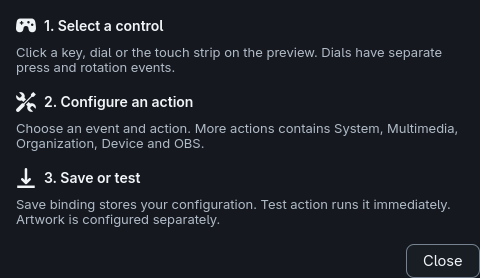
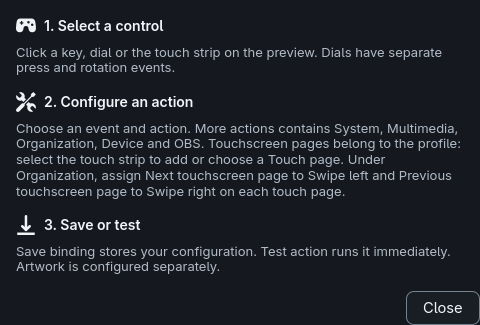
Touch pad pages

diff --git a/docs/index.html b/docs/index.html
@@ -221,11 +221,11 @@
           <p>Touchscreen settings, images and dial press/turn assignments follow the profile's selected touch page,
              independently of keypad pages and folders. Existing touch pages receive their profile's main-page dials
              on upgrade, without replacing touch edits or discarding legacy records.
-             Select the strip to add or choose a <strong>Touch page</strong>. Under <strong>More actions &gt; Organization</strong>,
-             assign <strong>Next touchscreen page</strong> to Swipe left and <strong>Previous touchscreen page</strong>
-             to Swipe right on each touch page. Left/right edge indicators show available previous/next touch pages,
+             Select the strip to add, choose or delete a <strong>Touch page</strong>. Swiping left shows the next touch page and
+             swiping right the previous one by default; assign any action to a swipe to override it. Left/right edge
+             indicators show available previous/next touch pages,
              including over section images and live information; unavailable directions are hidden.
-             Existing configurations and swipe assignments are preserved.</p>
+             Existing configurations and swipe assignments are preserved. The app always starts on the Base profile's first page.</p>
         </div>
         <div class="pair">
           <img class="shot" src="screenshots/encoder-events.png" width="243" height="188" loading="lazy"

diff --git a/src/feature_runtime/touchscreen.rs b/src/feature_runtime/touchscreen.rs
@@ -10,6 +10,7 @@ pub(super) struct TouchscreenControls {
     previous: Button,
     next: Button,
     create: Button,
+    delete: Button,
     updating: Rc<Cell<bool>>,
 }
 impl TouchscreenControls {
@@ -22,9 +23,10 @@ impl TouchscreenControls {
         let previous = crate::ui::icon_button("go-previous-symbolic", "Previous touchscreen page");
         let next = crate::ui::icon_button("go-next-symbolic", "Next touchscreen page");
         let create = crate::ui::icon_button("list-add-symbolic", "New touchscreen page");
+        let delete = crate::ui::icon_button("edit-delete-symbolic", "Delete touchscreen page");
         root.append(&Label::new(Some("Touch page")));
         root.append(&picker);
-        for button in [&previous, &next, &create] {
+        for button in [&previous, &next, &create, &delete] {
             root.append(button);
         }
         root.set_visible(false);
@@ -35,6 +37,7 @@ impl TouchscreenControls {
             previous,
             next,
             create,
+            delete,
             updating: Rc::new(Cell::new(false)),
         }
     }
@@ -59,6 +62,9 @@ impl TouchscreenControls {
                 Err(error) => callback.report(&format!("Could not create touchscreen page: {error}"), true),
             }
         });
+        let callback = runtime.clone();
+        self.delete
+            .connect_clicked(move |_| callback.confirm_touchscreen_removal());
         let callback = runtime.clone();
         let updating = self.updating.clone();
         self.picker.connect_selected_notify(move |picker| {
@@ -138,6 +144,7 @@ impl FeatureRuntime {
         controls
             .create
             .set_sensitive(!pages.is_empty() && pages.len() < 64);
+        controls.delete.set_sensitive(pages.len() > 1);
         controls.root.set_visible(
             matches!(
                 self.ui.control_kind(),
@@ -145,6 +152,67 @@ impl FeatureRuntime {
             ) && !pages.is_empty(),
         );
         controls.updating.set(false);
+    }
+    fn confirm_touchscreen_removal(&self) {
+        let Some(parent) = self
+            .touchscreen_controls
+            .root
+            .root()
+            .and_then(|root| root.downcast::<gtk::Window>().ok())
+        else {
+            return;
+        };
+        let Some(profile) = self.touchscreen_profile() else {
+            return;
+        };
+        let (owner, number) = {
+            let layers = self.layers.borrow();
+            let Some(owner) = layers.touchscreen_owner(layers.active()).map(str::to_owned) else {
+                return;
+            };
+            let number = layers
+                .touchscreen_pages(&profile)
+                .iter()
+                .position(|page| *page == owner)
+                .map_or(1, |index| index + 1);
+            (owner, number)
+        };
+        let dialog = gtk::MessageDialog::builder()
+            .transient_for(&parent)
+            .modal(true)
+            .destroy_with_parent(true)
+            .message_type(gtk::MessageType::Question)
+            .text(format!("Delete touchscreen page {number}?"))
+            .secondary_text("This deletes the page's touch, dial and gesture bindings and artwork. Keypad pages are unchanged. It cannot be undone.")
+            .build();
+        dialog.add_button("Keep", gtk::ResponseType::Cancel);
+        dialog
+            .add_button("Delete page", gtk::ResponseType::Accept)
+            .add_css_class("destructive-action");
+        dialog.set_default_response(gtk::ResponseType::Cancel);
+        let callback = self.clone();
+        dialog.connect_response(move |dialog, response| {
+            if response == gtk::ResponseType::Accept {
+                match callback.remove_touchscreen_page(&profile, &owner) {
+                    Ok(()) => callback.report("Touchscreen page deleted.", false),
+                    Err(error) => callback
+                        .report(&format!("Could not delete touchscreen page: {error}"), true),
+                }
+            }
+            dialog.close();
+        });
+        dialog.present();
+    }
+    fn remove_touchscreen_page(&self, profile: &str, owner: &str) -> Result<(), String> {
+        let mut layers = self.layers.borrow().clone();
+        layers
+            .remove_touchscreen_page(profile, owner)
+            .map_err(|error| error.to_string())?;
+        self.artwork.remove_layers(&[owner.to_owned()])?;
+        *self.layers.borrow_mut() = layers;
+        self.refresh_selection();
+        self.persist(self.layers.borrow().clone());
+        Ok(())
     }
     pub(super) fn navigate_touchscreen(&self, action: TouchscreenAction) {
         let Some(profile) = self.touchscreen_profile() else {

diff --git a/src/layers/touchscreen.rs b/src/layers/touchscreen.rs
@@ -588,6 +588,32 @@ impl LayerStore {
         data.selected = data.pages.len() - 1;
         Ok(owner)
     }
+    /// Delete one touch page; a profile always keeps at least one. The selection
+    /// keeps pointing at the same page, or at the nearest one if it was removed.
+    pub fn remove_touchscreen_page(&mut self, profile: &str, owner: &str) -> io::Result<()> {
+        if self.touchscreens.invalid {
+            return Err(invalid("repair touchscreen configuration before saving"));
+        }
+        let data = self
+            .touchscreens
+            .profiles
+            .get_mut(profile)
+            .ok_or_else(|| invalid("unknown touchscreen profile"))?;
+        let index = data
+            .pages
+            .iter()
+            .position(|page| page.name == owner)
+            .ok_or_else(|| invalid("unknown touchscreen page"))?;
+        if data.pages.len() == 1 {
+            return Err(invalid("a profile must keep at least one touchscreen page"));
+        }
+        data.pages.remove(index);
+        if index < data.selected {
+            data.selected -= 1;
+        }
+        data.selected = data.selected.min(data.pages.len() - 1);
+        Ok(())
+    }
     pub fn select_touchscreen_page(&mut self, profile: &str, owner: &str) -> bool {
         let Some(profile) = self.touchscreens.profiles.get_mut(profile) else {
             return false;

diff --git a/src/layers.rs b/src/layers.rs
@@ -103,6 +103,31 @@ impl Trigger {
     }
 }
 
+/// Unbound horizontal swipes change touchscreen page: left shows the next
+/// page, right the previous one. Any explicit binding takes precedence.
+fn default_swipe_binding(event: &Event) -> Option<(Trigger, Action)> {
+    use crate::features::{FeatureAction, TouchscreenAction};
+    let Event::TouchFlick {
+        start_x,
+        start_y,
+        end_x,
+        end_y,
+    } = *event
+    else {
+        return None;
+    };
+    let direction = swipe_direction(start_x, start_y, end_x, end_y)?;
+    let page = match direction {
+        SwipeDirection::Left => TouchscreenAction::NextPage,
+        SwipeDirection::Right => TouchscreenAction::PreviousPage,
+        _ => return None,
+    };
+    Some((
+        Trigger::TouchSwipe(direction),
+        Action::Feature(FeatureAction::Touchscreen(page)),
+    ))
+}
+
 /// Section (1 through 4) of the 800px touch strip that contains `x`.
 fn touch_zone(x: u16) -> Option<u8> {
     u8::try_from(x / 200)
@@ -505,6 +530,7 @@ impl LayerStore {
                 self.binding(&self.active, &trigger)
                     .map(|action| (trigger, action))
             })
+            .or_else(|| default_swipe_binding(event))
     }
     pub fn apply_switch(&mut self, target: &str) -> bool {
         self.select(target)

diff --git a/src/main.rs b/src/main.rs
@@ -269,6 +269,10 @@ fn build_ui_with_visibility(app: &Application, visible: bool) {
             return;
         }
     };
+    // Every launch starts on Base (its first page), whatever was saved last.
+    layers
+        .borrow_mut()
+        .select(sdeck_plus::layers::DEFAULT_LAYER);
     let (sender, receiver) = mpsc::channel();
     let app_event_sender = sender.clone();
     let hid = event_api::start_hid_monitor(sender);

diff --git a/README.md b/README.md
@@ -183,21 +183,26 @@ unreadable or invalid recovery state is reported instead of silently replaced.
 **Touchscreen pages and swipe navigation.** Select a dial, the touch strip or a
 section to show **Touch page** above its editor. Use the page selector and arrows to
 browse independently, or **New touchscreen page** (+) to add and select a blank
+page. Use **Delete touchscreen page** (the trash button) to remove the selected
+touch page after confirming; its touch, dial and gesture bindings and artwork are
+deleted, keypad pages are unchanged, and a profile always keeps at least one touch
 page. Each profile remembers its selected touch page, including after restart.
 There are up to 64 touch pages per profile, separate from the keypad layer limit.
 
 Small chevrons at the strip's left/right edges indicate an available previous/next
 page, both on the device and in the window preview. Unavailable directions are
 hidden; a single-page profile shows neither. Indicators stay above section artwork
-and live information. They are visual hints, not automatic swipe assignments.
+and live information. They are visual hints; swipes work without any setup.
 
-On each touch page, select **Swipe left**, then **More actions > Organization >
-Next touchscreen page**, and save. Assign **Previous touchscreen page** to
-**Swipe right** in the same way. These actions are offered only for touchscreen
-controls; the existing Next/Previous page actions still navigate keypad pages.
-Neither touchscreen navigation action wraps at the first or last page. Existing
-swipe assignments are kept, not replaced automatically. Saving a navigation
-binding does not run it. A configured delayed return still targets its chosen
+By default, swiping left on the touch strip shows the next touch page and swiping
+right shows the previous one, with no binding to configure. The defaults apply
+only while the gesture has no binding of its own: to change a swipe, select
+**Swipe left** or **Swipe right**, choose any action (for example **More actions >
+Organization > Next touchscreen page**) and save; a Flick binding also takes
+precedence. Swipe up and down have no default. These touchscreen actions are
+offered only for touchscreen controls; the existing Next/Previous page actions
+still navigate keypad pages. Neither touchscreen navigation action wraps at the
+first or last page. Saving a navigation binding does not run it. A configured delayed return still targets its chosen
 keypad page; it does not select a touch page.
 
 ![Touch strip selected in the editor](docs/screenshots/touch-strip.png)
@@ -455,6 +460,8 @@ Profiles appear as native tabs, with **Base** always available. Create another
 profile in **Organize → New profile** using **Profile name** and **Create profile** (disabled until the name is new). Pages
 belong to their profile; folders belong to individual pages and do not create additional profile tabs.
 Switching tabs restores that profile's last selected page for the current session.
+Every time the app starts it opens on the **Base** profile's first page, whichever
+page was selected when it last closed.
 
 To make a profile application-specific, open **Organize → Edit profile**, choose it under
 **Profile to edit**, enter a window class or executable name under

diff --git a/DESIGN.md b/DESIGN.md
@@ -14,10 +14,13 @@ tools use progressive disclosure instead of competing with action editing.
 Touchscreen configuration is profile-owned and has its own page selection,
 independent of keypad pages and folders. Only the touch inspector shows the
 compact **Touch page** selector, boundary-aware previous/next arrows and add
-button; it does not change the fixed hardware preview geometry. Each control
+and delete buttons (delete is disabled for a profile's last touch page and asks
+for confirmation); it does not change the fixed hardware preview geometry. Each control
 retains an accessible name and tooltip. Organization actions distinguish keypad
-navigation from touchscreen navigation; existing swipe assignments are never
-silently replaced. Dials follow the same selected touchscreen page, including
+navigation from touchscreen navigation. Unbound swipe left/right change touch
+page by default (next/previous); any explicit binding replaces that default, and
+existing swipe assignments are never silently replaced. The app always starts on
+the Base profile's first page. Dials follow the same selected touchscreen page, including
 press/turn actions, delayed returns and live information. Keypad navigation must
 not change them. On a v1 upgrade, copy each profile's main-page dials into its
 existing touch pages without replacing touch edits, artwork or legacy records.

diff --git a/CHANGELOG.md b/CHANGELOG.md
@@ -6,8 +6,18 @@ tagged yet, so everything below is unreleased (package version `0.1.0`).
 
 ## [Unreleased]
 
+### Changed
+
+- The app always starts on the Base profile's first page instead of restoring the
+  page that was active when it last closed.
+
 ### Added
 
+- **Delete touchscreen pages.** A trash button beside the Touch page controls
+  deletes the selected touch page and its bindings and artwork after confirmation.
+  A profile always keeps at least one touch page.
+- **Swipes change touch page by default.** Unbound Swipe left shows the next touch
+  page and Swipe right the previous one. Any binding on the gesture overrides it.
 - **Page-owned dials.** Dial press/turn actions and live information now follow
   each profile's touchscreen pages, not keypad pages or folders. Existing touch
   pages retain their edits and start with a copy of their profile's main-page
